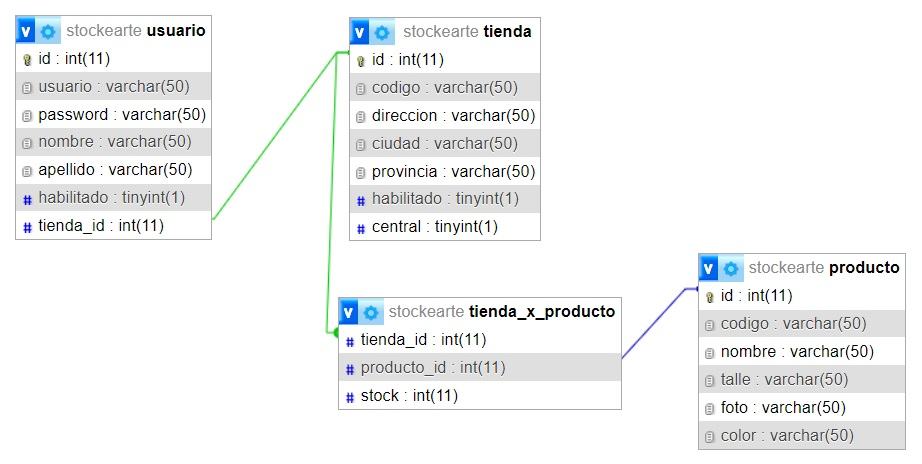
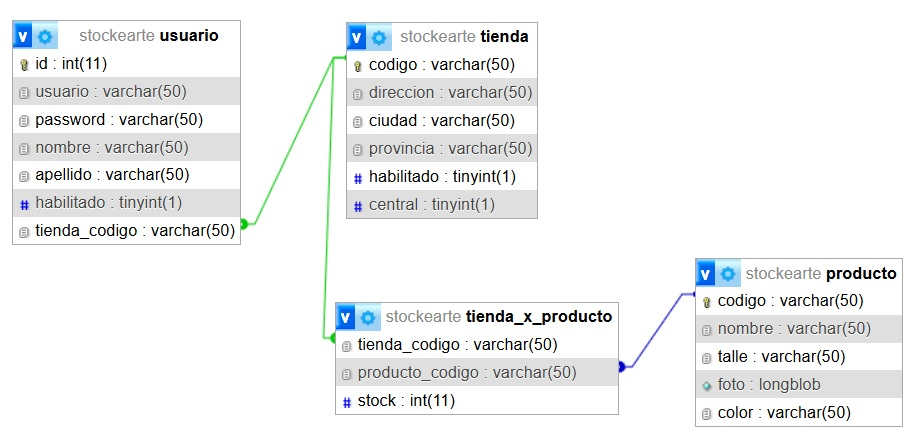
fix 2 de la base de datos

Changed region(s): [[0.0, 0.0293, 1.0, 0.9684]]

diff --git a/Servidor/datosDePrueba.js b/Servidor/datosDePrueba.js
@@ -29,19 +29,22 @@ function query(comandoSQL, args)
 
 /************************************ FUNCIONES DE CARGA DE DATOS **********************************/
 
+async function chequearExistencia(tabla, columna, valor) {
+    const resultados = await query(`SELECT EXISTS(SELECT ${columna} FROM ${tabla} WHERE ${columna} = ?) AS existe`, [valor]);
+    return resultados[0].existe;
+}
+
 async function cargarTienda(registro)
 {
-    // Chequeo si ya existe la tienda
-    var resultados = await query(`SELECT EXISTS(SELECT codigoTienda FROM tiendas WHERE codigoTienda = ?) AS existe`, [registro.codigoTienda]);
-    var existeTienda = resultados[0].existe;
+    var existeTienda = await chequearExistencia('tienda', 'codigo', registro.codigo);
 
-    if(existeTienda) console.log('ERROR: Ya existe la tienda');
+    if(existeTienda) console.log('ERROR: Ya existe la tienda ' + registro.codigo);
     else
     {
         try
         {
-            await query('INSERT INTO tiendas SET ?', registro);
-            console.log('Se hizo el alta de la tienda con el codigo: ' + registro.codigoTienda);
+            await query('INSERT INTO tienda SET ?', registro);
+            console.log('Se hizo el alta de la tienda con el codigo: ' + registro.codigo);
         }
         catch(error) {console.log(error);}
     }
@@ -50,23 +53,18 @@ async function cargarTienda(registro)
 
 async function cargarUsuario(registro)
 {
-    // Chequeo si ya existe el usuario
-    var resultados = await query(`SELECT EXISTS(SELECT nombreUsuario FROM usuarios WHERE nombreUsuario = ?) AS existe`, [registro.nombreUsuario]);
-    var existeUsuario = resultados[0].existe;
-    
-    // Chequeo si existe la tienda que se quiere asignar al usuario
-    resultados = await query(`SELECT EXISTS(SELECT codigoTienda FROM tiendas WHERE codigoTienda = ?) AS existe`, [registro.codigoTienda]);
-    var existeTienda = resultados[0].existe;
+    const existeUsuario = await chequearExistencia('usuario', 'usuario', registro.usuario);
+    const existeTienda  = await chequearExistencia('tienda', 'codigo', registro.tienda_codigo);
 
-    if(existeUsuario) console.log('ERROR: Ya existe el usuario ' + registro.nombreUsuario);
+    if(existeUsuario) console.log('ERROR: Ya existe el usuario ' + registro.usuario);
     if(!existeTienda) console.log('ERROR: No existe la tienda');
     
     if(!existeUsuario && existeTienda) // Si no existe el usuario y si existe la tienda
     {
         try
         {
-            await query('INSERT INTO usuarios SET ?', registro);
-            console.log('Se hizo el alta del usuario: ' + registro.nombreUsuario);
+            await query('INSERT INTO usuario SET ?', registro);
+            console.log('Se hizo el alta del usuario: ' + registro.usuario);
         }
         catch(error) {console.log(error);}
     }
@@ -76,90 +74,26 @@ async function cargarUsuario(registro)
 
 async function cargaDatosDePrueba()
 {
-
-    // CARGA DE TIENDAS
-    var registro =
-    {
-        codigoTienda: "sanji32542",
-        direccion:    "Lacoste 1920",
-        ciudad:       "Las Toninas",
-        provincia:    "Buenos Aires",
-        habilitado:   false
+    const tiendas = [
+        { codigo: "sanji32542", direccion: "Lacoste 1920",   ciudad: "Las Toninas",       provincia: "Buenos Aires", habilitado: false },
+        { codigo: "asdfgh987",  direccion: "Juan Justo 200", ciudad: "Monte Chingolo",    provincia: "Buenos Aires", habilitado: true },
+        { codigo: "xcbewu13",   direccion: "Canarias 1850",  ciudad: "Ciudad de Cordoba", provincia: "Cordoba",      habilitado: true }
+    ];
+    
+    const usuarios = [
+        { nombre: 'Pepe',    apellido: 'Argento',   usuario: 'El Pepo',   password: '12345',           habilitado: true,  tienda_codigo: 'sanji32542' },
+        { nombre: 'Moni',    apellido: 'Argento',   usuario: 'La Peluca', password: 'qwerty',          habilitado: true,  tienda_codigo: 'asdfgh987' },
+        { nombre: 'Unlero',  apellido: 'Sistemas',  usuario: 'The One',   password: 'fñnbqio_@748e5a', habilitado: false, tienda_codigo: 'asdfgh987' },
+        { nombre: 'Horacio', apellido: 'Hernandez', usuario: 'H-H',       password: '564sdgf',         habilitado: true,  tienda_codigo: 'sanji32542' }
+    ];
+    
+    for (const tienda of tiendas) {
+        await cargarTienda(tienda);
     }
-
-    cargarTienda(registro);
-
-    registro =
-    {
-        codigoTienda: "asdfgh987",
-        direccion:    "Juan Justo 200",
-        ciudad:       "Monte Chingolo",
-        provincia:    "Buenos Aires",
-        habilitado:   true
+    
+    for (const usuario of usuarios) {
+        await cargarUsuario(usuario);
     }
-
-    cargarTienda(registro);
-
-    registro =
-    {
-        codigoTienda: "xcbewu13",
-        direccion:    "Canarias 1850",
-        ciudad:       "Ciudad de  Cordoba",
-        provincia:    "Cordoba",
-        habilitado:   true
-    }
-
-    cargarTienda(registro);
-
-    // CARGA DE USUARIOS
-    registro =
-    {
-        nombre: 'Pepe',
-        apellido: 'Argento',
-        nombreUsuario: 'El Pepo',
-        contrasenia: '12345',
-        habilitado: true,
-        codigoTienda: 'sanji32542'
-    }
-
-    cargarUsuario(registro);
-
-    registro =
-    {
-        nombre: 'Moni',
-        apellido: 'Argento',
-        nombreUsuario: 'La Peluca',
-        contrasenia: 'qwerty',
-        habilitado: true,
-        codigoTienda: 'asdfgh987'
-    }
-
-    cargarUsuario(registro);
-
-
-    registro =
-    {
-        nombre: 'Unlero',
-        apellido: 'Sistemas',
-        nombreUsuario: 'The One',
-        contrasenia: 'fñnbqio_@748e5a',
-        habilitado: false,
-        codigoTienda: 'asdfgh987'
-    }
-
-    cargarUsuario(registro);
-
-    registro =
-    {
-        nombre: 'Horacio',
-        apellido: 'Hernandez',
-        nombreUsuario: 'H-H',
-        contrasenia: '564sdgf',
-        habilitado: true,
-        codigoTienda: 'sanji32542'
-    }
-
-    cargarUsuario(registro);
 
     // FALTAN LOS DATOS DE PRUEBA DE LOS PRODUCTOS. AGREGARLOS CUANDO ESTE TERMINADA LA BASE DE DATOS
 }

diff --git a/Servidor/grpc_punto2.js b/Servidor/grpc_punto2.js
@@ -49,14 +49,38 @@ async function buscarTodosLosUsuarios(/*call, callback*/)
 
     try
     {
+        var resultados = await query(
+            `SELECT usuario.usuario
+            FROM usuario INNER JOIN tienda 
+            ON usuario.tienda_id = tienda.id 
+            WHERE tienda.central = 1 AND tienda.habilitado = 1`, {}
+        );
+
+        console.log(resultados);
+
+        /*if (resultados.length > 0) 
+        {
+            const nombre = resultados[0].nombre;
+
+            console.log('Imagen descargada: ' + nombre);
+        } 
+        else console.log('El usuario no pertenece a la casa central');*/
+    
+    }
+    catch(error) {console.log(error);}
+
+        
+    /*try
+    {
         var resultados = await query('SELECT nombre, apellido, nombreUsuario, habilitado, codigoTienda FROM usuarios', {});
         console.log(resultados);
     }
-    catch(error) {console.log(error);}
+    catch(error) {console.log(error);}*/
     
     // AGREGAR COMO DEVOLVER TODOS LOS DATOS MEDIANTE GRPC
 }
 
+buscarTodosLosUsuarios();
 
 async function buscarUsuarioXNombreUsuario(/*call, callback*/)
 {
